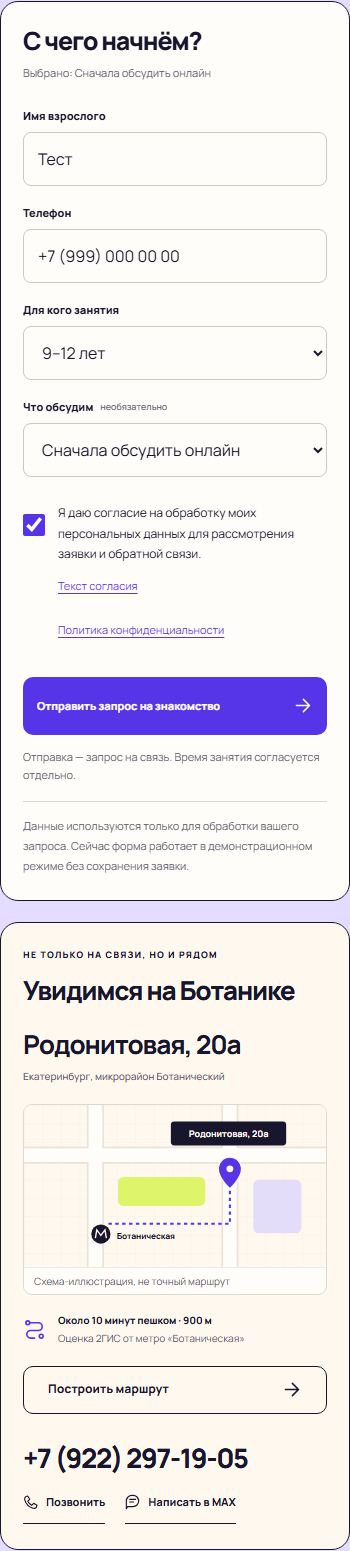
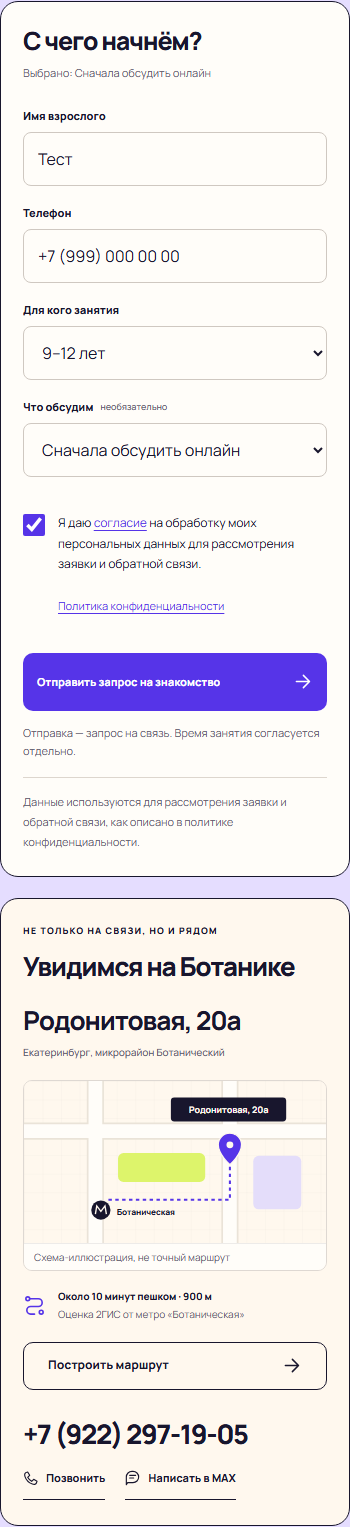
Show visual booking success without API requests

diff --git a/src/lib/legal-data.ts b/src/lib/legal-data.ts
@@ -20,8 +20,8 @@ export const legalDocuments = {
       { title: '1. Кто отвечает за обработку данных', text: `Сайт представляет студию английского языка для детей и взрослых по адресу: ${verifiedContacts.fullAddress}. Наименование и реквизиты оператора персональных данных, юридический адрес и специальный email для обращений должны быть указаны владельцем до запуска приёма реальных заявок. Название студии и адрес занятий не заменяют сведения об операторе.` },
       { title: '2. Какие данные запрашивает форма', text: 'Имя взрослого, номер телефона, выбранная возрастная группа (либо «Для себя»), необязательный вариант формата и отметка согласия. Форма не запрашивает имя ребёнка, дату рождения, домашний адрес, сведения о здоровье или документы. Не указывайте такие сведения при обращении.' },
       { title: '3. Для чего нужны данные', text: 'Цель формы — обработка запроса о знакомстве со студией и обсуждение подходящей программы и времени. Согласие запрашивается отдельно, до отправки; оно не распространяется на рекламные рассылки, публикацию данных или иные цели. В текущей демонстрационной версии выполняются только проверка и нормализация полей.' },
-      { title: '4. Как работает текущая версия', text: 'При нажатии кнопки поля передаются локальному серверному обработчику по адресу /api/leads, проверяются и используются для демонстрации результата. Приложение не записывает заявку в базу, файлы, журналы или localStorage, не передаёт её студии и не отправляет в MAX. После успеха имя и телефон удаляются из состояния формы; при ошибке остаются в открытой вкладке для исправления. Закрытие или перезагрузка страницы очищает их. Рабочая доставка пока не подключена.' },
-      { title: '5. Срок и операции обработки', text: 'В текущем режиме обработка ограничена приёмом, проверкой, нормализацией и использованием сведений для ответа формы в рамках одного запроса; постоянное хранение не предусмотрено. Перед включением реальных заявок владелец должен определить и опубликовать сроки хранения, порядок уничтожения, получателей, используемый хостинг и место обработки, а также обеспечить выполнение применимых требований к локализации данных граждан РФ.' },
+      { title: '4. Как работает текущая версия', text: 'Поля проверяются только в открытой вкладке браузера. После корректного заполнения отображается визуальное подтверждение. Запрос к API не выполняется; данные не покидают форму и не передаются на сервер. Приложение не записывает заявку в базу, файлы, журналы или localStorage, не передаёт её студии и не отправляет в MAX. После успеха имя и телефон удаляются из состояния формы; при ошибке остаются в открытой вкладке для исправления. Закрытие или перезагрузка страницы очищает их. Рабочая доставка пока не подключена.' },
+      { title: '5. Срок и операции обработки', text: 'В текущем режиме обработка ограничена проверкой и нормализацией полей в памяти браузера для визуальной демонстрации; постоянное хранение не предусмотрено. Перед включением реальных заявок владелец должен определить и опубликовать сроки хранения, порядок уничтожения, получателей, используемый хостинг и место обработки, а также обеспечить выполнение применимых требований к локализации данных граждан РФ.' },
       { title: '6. Защита и доступ', text: 'Код проверяет поля на клиенте и сервере, ограничивает размер запроса и не публикует контактные данные в ответе API. Секреты будущей интеграции должны храниться только на сервере. Для публичного запуска необходимы HTTPS и подтверждённая владельцем конфигурация хостинга, резервирования, журналирования и доступа. Текущая политика не утверждает, что эти условия уже выполнены.' },
       { title: '7. Ваши права и обращения', text: `Вы вправе запросить сведения об обработке, уточнение, прекращение обработки и удаление данных, отозвать согласие, а также обратиться в Роскомнадзор или суд. До указания специального email вопрос можно адресовать студии по телефону ${verifiedContacts.phone} или через её публичный контакт MAX. Не отправляйте в публичный чат документы или лишние персональные сведения. Реальные сроки и порядок обработки обращений оператор обязан согласовать до запуска.` },
       { title: '8. Cookies и внешние ссылки', text: 'В коде этого сайта нет аналитики, рекламных пикселей и записи данных формы в cookies или localStorage. Технические журналы будущего хостинга должны быть отдельно проверены владельцем. При переходе в 2ГИС или MAX открывается внешний сервис с собственной политикой. Переход по ссылке сам по себе не отправляет туда вашу заявку.' },
@@ -33,9 +33,9 @@ export const legalDocuments = {
     subtitle: 'Отдельный документ для формы заявки',
     sections: [
       { title: 'Кому и на что даётся согласие', text: `Я, совершеннолетний пользователь, действуя свободно, своей волей и в своём интересе, даю оператору сайта студии по адресу ${verifiedContacts.fullAddress} согласие на обработку введённых мной имени взрослого, телефона, возрастной группы и выбранного формата. Полные сведения об операторе должны быть заполнены владельцем до приёма реальных заявок.` },
-      { title: 'Цель и способы обработки', text: 'Согласие относится только к обработке запроса о первом занятии и обратной связи по этому запросу. Допустимые операции: получение, проверка, нормализация и использование данных для ответа формы. В текущей версии данные обрабатываются автоматически в рамках демонстрационного запроса без постоянного хранения, передачи студии и отправки в MAX. Этот текст не даёт согласия на рекламу, рассылки, распространение или публикацию данных.' },
-      { title: 'Срок действия и отзыв', text: `В текущем демонстрационном режиме согласие действует на время обработки одного запроса. Данные не сохраняются приложением; данные в форме можно удалить, закрыв вкладку. По вопросам обработки и отзыва согласия можно связаться со студией по телефону ${verifiedContacts.phone} или в MAX. Специальный адрес для отзыва, реквизиты оператора, сроки и операции для живой обработки должны быть утверждены до её включения.` },
-      { title: 'Как подтвердить согласие', text: 'Согласие выражается отдельной отметкой в форме, изначально не установленной, и последующим нажатием кнопки отправки. Без отметки форма и сервер отклоняют запрос. Политика конфиденциальности доступна отдельно для ознакомления. Установка отметки не подтверждает покупку, договор на обучение или подписку на рекламу.' },
+      { title: 'Цель и способы обработки', text: 'Согласие относится только к обработке запроса о первом занятии и обратной связи по этому запросу. Допустимые операции: получение, проверка, нормализация и использование данных для ответа формы. В текущей версии данные проверяются только в памяти браузера без постоянного хранения, передачи студии и отправки в MAX. Этот текст не даёт согласия на рекламу, рассылки, распространение или публикацию данных.' },
+      { title: 'Срок действия и отзыв', text: `В текущем демонстрационном режиме согласие относится к проверке данных в открытой форме без их отправки. Данные не сохраняются приложением; данные в форме можно удалить, закрыв вкладку. По вопросам обработки и отзыва согласия можно связаться со студией по телефону ${verifiedContacts.phone} или в MAX. Специальный адрес для отзыва, реквизиты оператора, сроки и операции для живой обработки должны быть утверждены до её включения.` },
+      { title: 'Как подтвердить согласие', text: 'Согласие выражается отдельной отметкой в форме, изначально не установленной, и последующим нажатием кнопки отправки. Без отметки форма не показывает успешное завершение. Политика конфиденциальности доступна отдельно для ознакомления. Установка отметки не подтверждает покупку, договор на обучение или подписку на рекламу.' },
     ],
   },
 };

diff --git a/src/components/interactive.tsx b/src/components/interactive.tsx
@@ -70,13 +70,12 @@ export function LeadForm() {
   const text = demoContent.booking;
   const [fields, setFields] = useState<LeadInput>({ name: '', phone: '', age: '', format: '', website: '', consent: false });
   const [errors, setErrors] = useState<FieldErrors>({});
-  const [status, setStatus] = useState<'idle' | 'pending' | 'error' | 'success'>('idle');
+  const [status, setStatus] = useState<'idle' | 'error' | 'success'>('idle');
   const [message, setMessage] = useState('');
   const [selectionNotice, setSelectionNotice] = useState('');
   const headingRef = useRef<HTMLHeadingElement>(null);
   const formRef = useRef<HTMLFormElement>(null);
   const successRef = useRef<HTMLDivElement>(null);
-  const submitting = useRef(false);
   useEffect(() => {
     const listener = (event: Event) => {
       const selected = (event as CustomEvent<Selection>).detail;
@@ -117,36 +116,21 @@ export function LeadForm() {
     const field = ['name', 'phone', 'age', 'format', 'consent'].find(key => nextErrors[key as keyof LeadInput]);
     if (field) requestAnimationFrame(() => formRef.current?.querySelector<HTMLElement>(`[name="${field}"]`)?.focus());
   }
-  async function submit(event: FormEvent<HTMLFormElement>) {
+  function submit(event: FormEvent<HTMLFormElement>) {
     event.preventDefault();
-    if (submitting.current) return;
     const validation = validateLead(fields);
     setErrors(validation.errors); setMessage('');
     if (!validation.lead) { setStatus('error'); setMessage('Проверьте выделенные поля.'); focusError(validation.errors); return; }
-    submitting.current = true; setStatus('pending');
-    const controller = new AbortController();
-    const timeout = window.setTimeout(() => controller.abort(), 12000);
-    try {
-      const response = await fetch('/api/leads', { method: 'POST', headers: { 'Content-Type': 'application/json' }, body: JSON.stringify({ ...validation.lead, website: fields.website }), signal: controller.signal });
-      const result = await response.json();
-      if (!response.ok || result.mode !== 'demo' || result.delivered !== false) {
-        if (result.errors) { setErrors(result.errors); focusError(result.errors); }
-        throw new Error(result.message || 'Не удалось проверить заявку. Попробуйте ещё раз.');
-      }
-      setStatus('success');
-      // Discard contact details after successful processing; nothing is persisted.
-      setFields(previous => ({ ...previous, name: '', phone: '', website: '', consent: false }));
-      requestAnimationFrame(() => successRef.current?.focus({ preventScroll: true }));
-    } catch (error) {
-      setStatus('error');
-      setMessage(error instanceof Error && error.name !== 'AbortError' ? error.message : 'Не удалось связаться с сайтом. Данные остались в форме. Попробуйте ещё раз.');
-    } finally { window.clearTimeout(timeout); submitting.current = false; }
+    // Presentation-only booking: no network request and no persistence.
+    setStatus('success');
+    setFields(previous => ({ ...previous, name: '', phone: '', website: '', consent: false }));
+    requestAnimationFrame(() => successRef.current?.focus({ preventScroll: true }));
   }
   return <div className="form-card">
     <h3 ref={headingRef} tabIndex={-1}>{text.formTitle}</h3>
     <p className="selection-notice" role="status">{selectionNotice || 'Выберите возраст — остальное обсудим вместе.'}</p>
-    {status === 'success' ? <div className="form-success" ref={successRef} tabIndex={-1} role="status"><div className="success-icon"><Icon name="check" /></div><h4>{text.success}</h4><p>{text.successDetail}</p><a href={verifiedContacts.maxUrl} target="_blank" rel="noopener noreferrer" className="button button-primary">{text.max}<Icon name="arrow" /></a><button className="text-link" type="button" onClick={() => { setStatus('idle'); requestAnimationFrame(() => headingRef.current?.focus()); }}>{text.another}</button></div> :
-    <form ref={formRef} onSubmit={submit} noValidate aria-busy={status === 'pending'}>
+    {status === 'success' ? <div className="form-success" ref={successRef} tabIndex={-1} role="status"><div className="success-icon"><Icon name="check" /></div><h4>{text.success}</h4><p>{text.successDetail}</p><button className="text-link" type="button" onClick={() => { setStatus('idle'); requestAnimationFrame(() => headingRef.current?.focus()); }}>{text.another}</button></div> :
+    <form ref={formRef} onSubmit={submit} noValidate>
       <div className="form-field"><label htmlFor="lead-name">{text.name}</label><input id="lead-name" name="name" autoComplete="given-name" placeholder="Как к вам обращаться?" maxLength={60} value={fields.name} onChange={event => update('name', event.target.value)} required aria-invalid={!!errors.name} aria-describedby={errors.name ? 'error-name' : undefined} />{errors.name && <p className="field-error" id="error-name">{errors.name}</p>}</div>
       <div className="form-field"><label htmlFor="lead-phone">{text.phone}</label><input id="lead-phone" name="phone" type="tel" inputMode="tel" autoComplete="tel" placeholder="+7 (999) 999 99 99" maxLength={40} value={fields.phone} onChange={event => updatePhone(event.currentTarget)} onKeyDown={event => {
         const input = event.currentTarget;
@@ -163,7 +147,7 @@ export function LeadForm() {
       <div className="form-row"><div className="form-field"><label htmlFor="lead-age">{text.age}</label><select id="lead-age" name="age" value={fields.age} onChange={event => update('age', event.target.value)} required aria-invalid={!!errors.age} aria-describedby={errors.age ? 'error-age' : undefined}><option value="" disabled>Выберите возраст</option>{ageOptions.map(option => <option key={option.value} value={option.value}>{option.label}</option>)}</select>{errors.age && <p className="field-error" id="error-age">{errors.age}</p>}</div><div className="form-field"><label htmlFor="lead-format">{text.format}<span>{text.optional}</span></label><select id="lead-format" name="format" value={fields.format} onChange={event => update('format', event.target.value)} aria-invalid={!!errors.format} aria-describedby={errors.format ? 'error-format' : undefined}>{formatOptions.map(option => <option key={option.value} value={option.value}>{option.label}</option>)}</select>{errors.format && <p className="field-error" id="error-format">{errors.format}</p>}</div></div>
       <div className="honeypot" aria-hidden="true"><label htmlFor="lead-website">Ваш сайт</label><input id="lead-website" name="website" autoComplete="off" tabIndex={-1} value={fields.website} onChange={event => update('website', event.target.value)} /></div>
       <div className="consent-field"><div className="consent-row"><input id="lead-consent" name="consent" type="checkbox" checked={fields.consent} onChange={event => update('consent', event.target.checked)} required aria-invalid={!!errors.consent} aria-describedby={errors.consent ? 'error-consent' : 'consent-links'}/><label htmlFor="lead-consent">Я даю <LegalLink kind="consent">согласие</LegalLink> на обработку моих персональных данных для рассмотрения заявки и обратной связи.</label></div><div id="consent-links" className="consent-links"><LegalLink kind="privacy">Политика конфиденциальности</LegalLink></div>{errors.consent && <p className="field-error" id="error-consent" role="alert">{errors.consent}</p>}</div>
-      <button className="button button-primary submit-button" type="submit" disabled={status === 'pending'}>{status === 'pending' ? text.pending : text.submit}<Icon name="arrow" /></button>
+      <button className="button button-primary submit-button" type="submit">{text.submit}<Icon name="arrow" /></button>
       <p className="form-message" role="alert">{status === 'error' ? message : ''}</p>
       <p className="form-disclaimer">{text.disclaimer}</p><p className="form-consent" id="demo-privacy">{text.consent}</p>
     </form>}

diff --git a/tests/site.spec.ts b/tests/site.spec.ts
@@ -19,6 +19,8 @@ test('visual layout and complete demo booking journey', async ({ page }, testInf
   const errors: string[] = [];
   page.on('pageerror', error => errors.push(error.message));
   await mkdir('artifacts/qa', { recursive: true });
+  let leadRequests = 0;
+  page.on('request', request => { if (request.url().includes('/api/leads')) leadRequests++; });
   await page.goto('/');
   await page.evaluate(() => document.fonts.ready);
   await expect(page.getByRole('heading', { level: 1 })).toHaveText('Английский,на котором ребёнок заговорит смелее');
@@ -57,17 +59,10 @@ test('visual layout and complete demo booking journey', async ({ page }, testInf
   await page.locator('#lead-consent').check();
   await page.locator('.booking-grid').screenshot({ path: `artifacts/qa/${testInfo.project.name}-form.png`, animations: 'disabled', style: '.site-header,.mobile-booking,.skip-link{visibility:hidden!important}' });
 
-  // One transient delivery error: values must survive and retry must work.
-  await page.route('**/api/leads', async route => route.fulfill({ status: 503, contentType: 'application/json', body: JSON.stringify({ message: 'Проверка ошибки: повторите отправку.' }) }), { times: 1 });
   await page.getByRole('button', { name: 'Отправить запрос на знакомство' }).click();
-  await expect(page.locator('.form-message[role="alert"]')).toHaveText('Проверка ошибки: повторите отправку.');
-  await expect(page.locator('#lead-phone')).toHaveValue('+7 (999) 000 00 00');
-  const request = page.waitForRequest(req => req.url().endsWith('/api/leads') && req.method() === 'POST');
-  await page.getByRole('button', { name: 'Отправить запрос на знакомство' }).click();
-  const submitted = await request;
-  expect(submitted.postDataJSON().phone).toBe('+79990000000');
-  await expect(page.locator('.form-success')).toContainText('Заявка успешно отправлена! Скоро с вами свяжутся.');
-  await expect(page.locator('.form-success')).toContainText('сообщение в MAX не отправлено');
+  await expect(page.locator('.form-success')).toContainText('Заявка отправлена. С вами свяжутся!');
+  await expect(page.locator('.form-success')).not.toContainText('Для настоящей записи');
+  expect(leadRequests).toBe(0);
   await expect(page.locator('.form-success')).toBeFocused();
   expect(await page.evaluate(() => localStorage.length)).toBe(0);
   await noOverflow(page);

diff --git a/src/lib/studio-data.ts b/src/lib/studio-data.ts
@@ -108,13 +108,13 @@ export const demoContent = {
   booking: {
     eyebrow: 'ДАВАЙТЕ ПОЗНАКОМИМСЯ', title: 'Подберём\nпервое занятие.',
     intro: 'Расскажите, для кого ищете английский. Начнём с вашей цели и удобного графика.',
-    demoNotice: 'Демо записи: данные не сохраняются и не передаются студии. Для настоящей записи позвоните или напишите в MAX.',
+    requestNotice: 'Оставьте заявку — свяжемся с вами, обсудим цель и подберём удобное время знакомства.',
     formTitle: 'С чего начнём?', name: 'Имя взрослого', phone: 'Телефон', age: 'Для кого занятия', format: 'Что обсудим', optional: 'необязательно',
     submit: 'Отправить запрос на знакомство', pending: 'Проверяем форму…',
     disclaimer: 'Отправка — запрос на связь. Время занятия согласуется отдельно.',
-    consent: 'Данные используются только для обработки вашего запроса. Сейчас форма работает в демонстрационном режиме без сохранения заявки.',
-    success: 'Заявка успешно отправлена! Скоро с вами свяжутся.',
-    successDetail: 'Это демонстрация записи: сообщение в MAX не отправлено. Для настоящей записи позвоните или напишите в студию.',
+    consent: 'Данные используются для рассмотрения заявки и обратной связи, как описано в политике конфиденциальности.',
+    success: 'Заявка отправлена. С вами свяжутся!',
+    successDetail: 'Спасибо! Обсудим вашу цель и согласуем удобное время первого знакомства.',
     another: 'Вернуться к форме', call: 'Позвонить', max: 'Написать в MAX', route: 'Построить маршрут',
     contactsTitle: 'Увидимся на Ботанике', mapNote: 'Схема-иллюстрация, не точный маршрут',
     contactEyebrow: 'НЕ ТОЛЬКО НА СВЯЗИ, НО И РЯДОМ',

diff --git a/src/app/page.tsx b/src/app/page.tsx
@@ -35,7 +35,7 @@ export default function Home() {
 
       <section className="faq-section section container" aria-labelledby="faq-heading"><div className="faq-heading" data-reveal><span className="eyebrow">{content.faq.eyebrow}</span><h2 id="faq-heading">{content.faq.title}<span className="question-doodle" aria-hidden="true">?</span></h2><p>{content.faq.intro}</p><a className="text-link" href={contacts.listingUrl} target="_blank" rel="noopener noreferrer">{content.faq.listing}<Icon name="arrow"/></a></div><FAQ/></section>
 
-      <section className="booking-section" id="booking" aria-labelledby="booking-heading"><div className="container section"><div className="booking-heading" data-reveal><div><span className="eyebrow">{content.booking.eyebrow}</span><h2 id="booking-heading">{content.booking.title}</h2></div><div><p>{content.booking.intro}</p><p className="demo-notice"><span className="demo-label">Демоусловия</span>{content.booking.demoNotice}</p></div></div>
+      <section className="booking-section" id="booking" aria-labelledby="booking-heading"><div className="container section"><div className="booking-heading" data-reveal><div><span className="eyebrow">{content.booking.eyebrow}</span><h2 id="booking-heading">{content.booking.title}</h2></div><div><p>{content.booking.intro}</p><p className="demo-notice">{content.booking.requestNotice}</p></div></div>
         <div className="booking-grid"><LeadForm/><aside className="contact-card" id="location" aria-labelledby="contact-heading"><span className="eyebrow">{content.booking.contactEyebrow}</span><h3 id="contact-heading">{content.booking.contactsTitle}</h3><p className="contact-address">{contacts.address}<span>{contacts.city}, микрорайон {contacts.district}</span></p><div className="map-wrap"><LocalMap/><span>{content.booking.mapNote}</span></div><div className="walk-info"><Icon name="route"/><div><strong>{contacts.walkEstimate}</strong><small>{contacts.walkSource}</small></div></div><a className="button button-outline" href={contacts.directionsUrl} target="_blank" rel="noopener noreferrer">{content.booking.route}<Icon name="arrow"/></a><a className="contact-phone" href={contacts.phoneHref}>{contacts.phone}</a><div className="contact-links"><a className="text-link" href={contacts.phoneHref}><Icon name="phone"/>{content.booking.call}</a><a className="text-link" href={contacts.maxUrl} target="_blank" rel="noopener noreferrer"><Icon name="chat"/>{content.booking.max}</a></div></aside></div>
       </div></section>
     </main>

diff --git a/README.md b/README.md
@@ -49,42 +49,13 @@ npm start
 - Не добавлялись вымышленные отзывы, преподаватели, регалии, рейтинг или гарантии результатов.
 - Нет подтверждённых реквизитов оператора персональных данных и юридических текстов. На демо явно описано отсутствие хранения; это пояснение не заменяет будущие согласие и политику.
 
-## Как устроена демозапись
+## Визуальная запись без API
 
-Выбор программы переносит возраст в форму, выбор ситуации с поездкой переносит формат; оба выбора сохраняются вместе. «Ищу занятия для себя» выбирает взрослое направление. Имя и телефон не сохраняются в localStorage, cookies, файлы или базу. Сервер не пишет содержимое заявки в логи и не возвращает контактные данные клиенту. После демоуспеха имя и телефон удаляются из состояния формы.
+По запросу пользователя форма работает полностью в браузере. После проверки имени, телефона, возраста, формата и обязательного согласия она показывает «Заявка отправлена. С вами свяжутся!». Сетевых запросов при отправке нет, MAX не вызывается, контактные данные нигде не сохраняются и очищаются после успеха. При ошибке поля остаются заполненными. Это демонстрация интерфейса, не фактическая доставка заявки.
 
-Проверяются имя (2–60 букв), российский телефон (до 40 символов, с нормализацией `8…`, `7…` и десятизначного номера в `+7…`), допустимый возраст и формат, пустой honeypot. JSON ограничен 4096 байтами, в том числе при отсутствии Content-Length. Запрос с чужим Origin отклоняется. Повторное нажатие блокируется синхронным флагом и disabled-состоянием; ожидание ограничено 12 секундами. При ошибке поля остаются заполненными, результат и ошибки доступны скринридеру.
+Резервный POST /api/leads и демоадаптер сохранены в исходниках для будущего подключения, но форма их не вызывает. Для текущего сценария токен бота и ID получателя не нужны.
 
-`sendLeadNotification(lead)` **всегда** возвращает `{ mode: 'demo', delivered: false }`. Нет HTTP-запроса, хранения или отправки в MAX, даже если заполнить переменные окружения. Заголовок успеха: **«Заявка успешно отправлена! Скоро с вами свяжутся.»** Под ним остаётся явное пояснение, что это демонстрация и сообщение в MAX не отправлено. Поле телефона использует маску `+7 (999) 999 99 99`, поддерживает ввод, вставку и редактирование; сервер проверяет номер независимо от маски. Отдельная ссылка «Написать в MAX» открывает публичный контакт; сообщения автоматически не отправляются.
-
-## Подключение живой доставки — после согласования
-
-### Политика и отдельное согласие
-
-В футере и рядом с формой доступны отдельные документы «Политика конфиденциальности» и «Согласие на обработку персональных данных». Они открываются в доступном модальном окне, закрываются кнопкой или Escape с возвратом фокуса. Чекбокс согласия изначально снят; `consent: true` обязателен и на клиенте, и на сервере. Согласие не объединено с рекламой или договором на обучение.
-
-Тексты и сведения об операторе редактируются в `src/lib/legal-data.ts`. По запросу владельца предусмотрены **явные заглушки** для ИП/ООО, ИНН, ОГРН(ИП), юридического адреса и email (`privacy@example.ru` — пример, не реальный контакт). Настоящие публичные телефон и адрес студии сохранены. Документы помечены как проекты до замены реквизитов и согласования; заполнение реквизитов само по себе не включает доставку и не подтверждает юридическую готовность..
-
-При переходе к живой обработке нужно согласовать тексты и основание обработки, уведомление Роскомнадзора при применимости, локализацию и хостинг, фактические сроки хранения/удаления, получателей и канал отзыва; предусмотреть подтверждение факта согласия с версией текста и временем. Эти данные не сохраняются в текущем демо. Сведения в документах должны соответствовать фактической работе сайта. Ориентиры: [статья 9 № 152-ФЗ](https://www.consultant.ru/document/cons_doc_LAW_61801/6c94959bc017ac80140621762d2ac59f6006b08c/), [статья 18.1 № 152-ФЗ](https://www.consultant.ru/document/cons_doc_LAW_61801/).
-
-Живая отправка, вебхук и аналитика намеренно не реализованы. Точка подключения — `sendLeadNotification` на сервере. Для будущей интеграции:
-
-1. Владелец создаёт бота MAX и получает токен.
-2. Руководитель начинает диалог с ботом **или** добавляет бота в рабочий чат; затем определяется настоящий идентификатор получателя.
-3. В серверном окружении задаются `MAX_BOT_TOKEN`, `MAX_RECIPIENT_ID` и `MAX_RECIPIENT_TYPE` со значением `user_id` **или** `chat_id`. Шаблон без секретов — `.env.example`. Не использовать префикс `NEXT_PUBLIC_` для секретов.
-4. Адаптер реализуется по актуальной [документации MAX: POST /messages](https://dev.max.ru/docs-api/methods/POST/messages). Тип получателя определяет параметр `user_id` либо `chat_id`; используйте актуальный API-домен из документации. **Номер телефона из 2ГИС и публичная ссылка MAX не являются Bot API ID.**
-5. Нужно обновить тип результата адаптера и API, проверку ответа и текст успеха в форме: текущее демо сознательно принимает только `mode: 'demo', delivered: false`. Показывать подтверждение доставки следует только после положительного ответа MAX; ошибки должны давать возможность повторить запрос без очистки полей.
-6. Проверить доставку в настоящий диалог/чат, обработку таймаутов, повторов и защиту от спама. Текущий honeypot и блокировка нажатия — демонстрационная защита, не полноценное ограничение запросов для публичного сайта.
-
-Функция `formatLeadMessage` уже готовит такой текст (не вызывается и не логируется в деморежиме):
-
-```text
-Новая заявка с сайта
-Имя взрослого: Анна
-Телефон: +7XXXXXXXXXX
-Возрастная группа: 9–12 лет
-Формат: Сначала обсудить онлайн
-```
+Политика и отдельный текст согласия доступны из формы и футера. Документы содержат явно обозначенные заглушки оператора; перед реальным приёмом заявок потребуется их заменить и согласовать юридические условия. Настройки — src/lib/legal-data.ts.
 
 ## Индексация и выпуск
 

diff --git a/artifacts/qa/verification.md b/artifacts/qa/verification.md
@@ -1,5 +1,7 @@
 # Проверка демосайта — 14 ноября 2026
 
+Обновление: форма переведена на визуальный сценарий без API. Проверяется отсутствие запросов к `/api/leads` при валидном заполнении; экран успеха — «Заявка отправлена. С вами свяжутся!». Предыдущие результаты проверки серверной доставки ниже относятся к прошлым версиям.
+
 Подготовка Netlify: `npm run build` успешен; 4 теста распознавания доменов и 1 контрактный API-тест пройдены. Полная локальная сборка `netlify build --offline` успешна (CLI 27.19.0 / Build 37.7.6 / Next.js Runtime 5.16.6), серверная функция `___netlify-server-handler` упакована. Это проверка сборки, а не подтверждение публичного деплоя. Инструкция: `NETLIFY.md`.
 
 Дополнение по документам и футеру: добавлены политика, отдельное согласие и обязательный чекбокс с проверкой `consent: true` на сервере. Сборка успешна; повторный прогон Chromium 320, 390 и 1440 px — 4 passed, 2 skipped (API выполняется один раз). Проверены снятый по умолчанию чекбокс, отказ API без согласия, полный путь записи с отметкой, открытие и закрытие политики, отсутствие горизонтального скролла; просмотрены снимки футера на 320 и 1440 px. Документы содержат явно обозначенные заглушки реквизитов по запросу пользователя.

diff --git a/NETLIFY.md b/NETLIFY.md
@@ -1,5 +1,7 @@
 # Публикация engforany2 на Netlify
 
+Обновление поведения формы: по запросу пользователя заявка теперь проверяется и визуально подтверждается полностью в браузере, без вызова API и MAX. Токен бота для этого сценария не нужен. Сохранённый в проекте API не используется формой.
+
 Репозиторий настроен для **Next.js со встроенным API**, а не для статического HTML. `netlify.toml` задаёт сборку и каталог результата, `.nvmrc` — версию Node.js. Netlify автоматически подключает адаптер OpenNext, создающий в том числе серверную функцию для `/api/leads`.
 
 ## Подключить репозиторий
